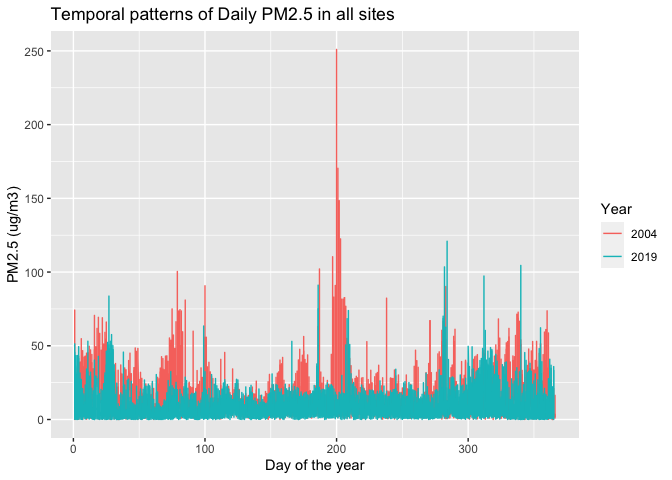
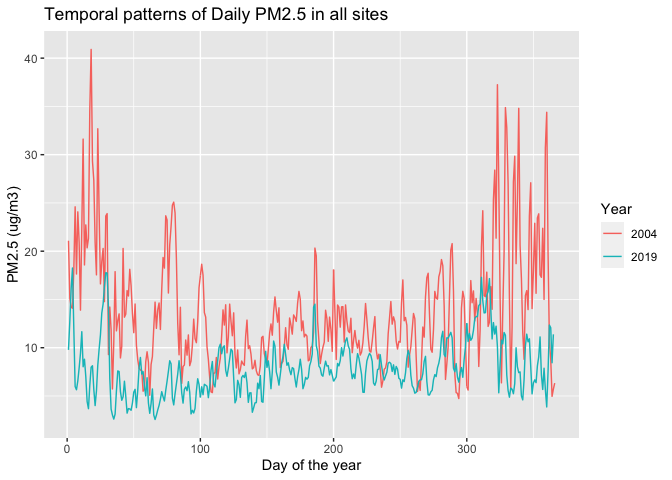
edit 1

diff --git a/HW1/README.md b/HW1/README.md
@@ -705,26 +705,8 @@ site19$site[!(site19$site %in% site04$site)]
     ## [80] "Porterville"                                      
     ## [81] "Ojai - East Ojai Ave"
 
-``` r
-pm$Date <- as.Date(pm$Date,"%m/%d/%Y")
-pm$yday <- yday(pm$Date)
-
-ggplot(pm, aes(x=yday, y=pm25,color=as.factor(year))) +
-  geom_line() +
-  labs(title="Temporal patterns of Daily PM2.5 in all sites",
-        x ="Day of the year", y = "PM2.5 (ug/m3)",
-        color = "Year")
-```
-
-![](README_files/figure-gfm/unnamed-chunk-10-1.png)<!-- -->
-
-In both years, daily PM<sub>2.5</sub> levels fluctuated all year around
-with seasonal variation. In general, we observed a decrease in daily
-level of PM<sub>2.5</sub> from 2004 to 2019. In 2004, we observed peak
-PM2.5 during summer, relatively high levels of PM<sub>2.5</sub> during
-fall and winter, and relatively low levels of PM<sub>2.5</sub> during
-April and May.In 2019, we did not observe a single peak, but we observed
-relatively high levels of PM<sub>2.5</sub> during fall and winter.
+Therefore, in general, monitoring data in 2019 covered more area than
+2004.
 
 # Q5
 
@@ -736,6 +718,10 @@ up explanations of what you observe in these data.
 ### State Level
 
 ``` r
+pm$Date <- as.Date(pm$Date,"%m/%d/%Y")
+pm$yday <- yday(pm$Date)
+
+
 statelevel <- pm %>%
   group_by(yday,year) %>%
   summarise(pm25av=mean(pm25))
@@ -752,7 +738,7 @@ ggplot(statelevel, aes(x=yday, y=pm25av,color=as.factor(year))) +
         color = "Year")
 ```
 
-![](README_files/figure-gfm/unnamed-chunk-11-1.png)<!-- -->
+![](README_files/figure-gfm/unnamed-chunk-10-1.png)<!-- -->
 
 First, we averaged the daily PM<sub>2.5</sub> across all monitoring
 sites in CA for each day in 2004 and 2019, and plotted the average daily
@@ -801,7 +787,7 @@ ggplot(pm,aes(x=county,y=pm25,color=as.factor(year)))+
   coord_flip()
 ```
 
-![](README_files/figure-gfm/unnamed-chunk-13-1.png)<!-- -->
+![](README_files/figure-gfm/unnamed-chunk-12-1.png)<!-- -->
 
 ``` r
 pm %>%
@@ -854,7 +840,7 @@ ggplot(pmla,aes(x=site,y=pm25,color=as.factor(year)))+
   coord_flip()
 ```
 
-![](README_files/figure-gfm/unnamed-chunk-14-1.png)<!-- -->
+![](README_files/figure-gfm/unnamed-chunk-13-1.png)<!-- -->
 
 ``` r
 pmla %>%
